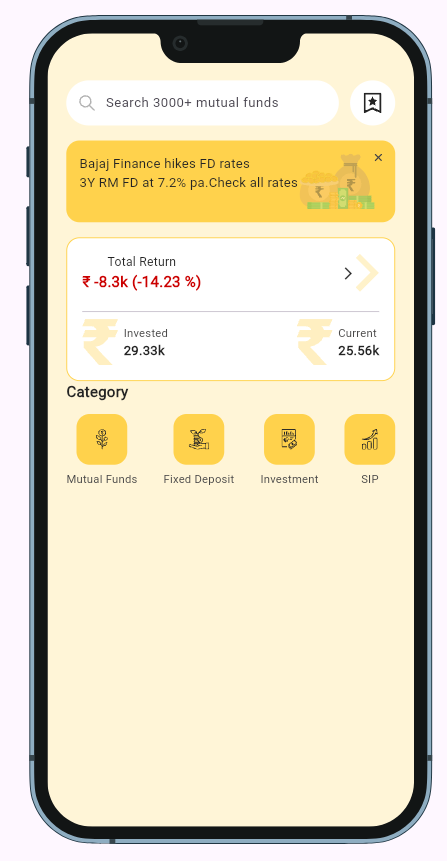
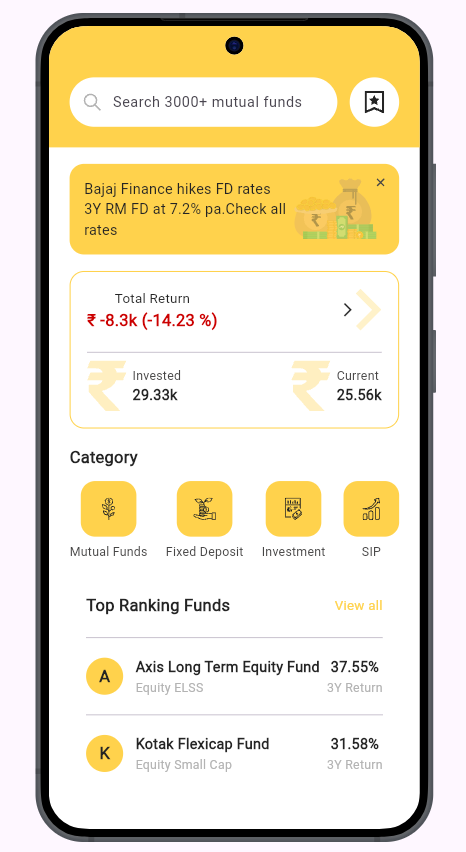
toprankingfunds done

diff --git a/lib/Home/TopRankingFunds.dart b/lib/Home/TopRankingFunds.dart
@@ -1,0 +1,143 @@
+import 'package:flutter/material.dart';
+
+import '../utils/colors.dart';
+
+class TopRankingFundsWidget extends StatelessWidget {
+  const TopRankingFundsWidget({super.key});
+
+  @override
+  Widget build(BuildContext context) {
+    return Container(
+      padding: const EdgeInsets.all(16),
+      decoration: BoxDecoration(
+        color: AppColors.card,
+        borderRadius: BorderRadius.circular(14),
+      ),
+      child: Column(
+        children: [
+          Row(
+            mainAxisAlignment: MainAxisAlignment.spaceBetween,
+            children: const [
+              Text(
+                "Top Ranking Funds",
+                style: TextStyle(
+                  fontSize: 16,
+                  fontWeight: FontWeight.w600,
+                  color: AppColors.textDark,
+                ),
+              ),
+              Text(
+                "View all",
+                style: TextStyle(fontSize: 13, color: AppColors.primary),
+              ),
+            ],
+          ),
+
+          const SizedBox(height: 12),
+          const Divider(),
+
+          fundItem(
+            iconText: "A",
+            name: "Axis Long Term Equity Fund",
+            category: "Equity ELSS",
+            returns: "37.55%",
+          ),
+
+          const Divider(),
+
+          fundItem(
+            iconText: "K",
+            name: "Kotak Flexicap Fund",
+            category: "Equity Small Cap",
+            returns: "31.58%",
+          ),
+        ],
+      ),
+    );
+  }
+
+  Widget fundItem({
+    required String iconText,
+    required String name,
+    required String category,
+    required String returns,
+  }) {
+    return InkWell(
+      onTap: () {},
+      child: Padding(
+        padding: const EdgeInsets.symmetric(vertical: 10),
+        child: Row(
+          children: [
+            Container(
+              height: 36,
+              width: 36,
+              decoration: BoxDecoration(
+                color: AppColors.primary,
+                shape: BoxShape.circle,
+              ),
+              child: Center(
+                child: Text(
+                  iconText,
+                  style: const TextStyle(
+                    fontSize: 16,
+                    fontWeight: FontWeight.w600,
+                    color: AppColors.textDark,
+                  ),
+                ),
+              ),
+            ),
+
+            const SizedBox(width: 12),
+
+            Expanded(
+              child: Column(
+                crossAxisAlignment: CrossAxisAlignment.start,
+                children: [
+                  Text(
+                    name,
+                    maxLines: 1,
+                    overflow: TextOverflow.ellipsis,
+                    style: const TextStyle(
+                      fontSize: 14,
+                      fontWeight: FontWeight.w600,
+                      color: AppColors.textDark,
+                    ),
+                  ),
+                  const SizedBox(height: 2),
+                  Text(
+                    category,
+                    style: const TextStyle(
+                      fontSize: 12,
+                      color: AppColors.textLight,
+                    ),
+                  ),
+                ],
+              ),
+            ),
+
+            Column(
+              children: [
+                Text(
+                  returns,
+                  style: const TextStyle(
+                    fontSize: 14,
+                    fontWeight: FontWeight.w600,
+                    color: AppColors.textDark,
+                  ),
+                ),
+                const SizedBox(height: 2),
+                Text(
+                  "3Y Return",
+                  style: const TextStyle(
+                    fontSize: 12,
+                    color: AppColors.textLight,
+                  ),
+                ),
+              ],
+            ),
+          ],
+        ),
+      ),
+    );
+  }
+}

diff --git a/lib/Home/Dashboard.dart b/lib/Home/Dashboard.dart
@@ -1,5 +1,6 @@
 import 'package:flutter/material.dart';
 import 'package:task1/Home/SearchbarWidget.dart';
+import 'package:task1/Home/TopRankingFunds.dart';
 import 'package:task1/Home/category_row_widget.dart';
 import 'package:task1/Home/portfolio_card_widget.dart';
 
@@ -12,20 +13,39 @@ class Dashboard extends StatelessWidget {
   @override
   Widget build(BuildContext context) {
     return Scaffold(
-      backgroundColor: AppColors.background,
+      backgroundColor: AppColors.card,
       body: SingleChildScrollView(
-        child: Padding(
-          padding: EdgeInsets.only(top: 50, left: 20, right: 20),
-          child: Column(
-            children: const [
-              SearchBarWidget(),
-              SizedBox(height: 16),
-              AdsCardWidget(),
-              SizedBox(height: 16),
-              PortfolioCardWidget(),
-              CategoryRowWidget(),
-            ],
-          ),
+        child: Column(
+          children: [
+            Container(
+              width: double.infinity, // Ensures it stretches edge-to-edge
+              color: AppColors.primary,
+              padding: const EdgeInsets.only(
+                top: 50,
+                left: 20,
+                right: 20,
+                bottom: 20,
+              ),
+              child: const SearchBarWidget(),
+            ),
+
+            Padding(
+              padding: const EdgeInsets.symmetric(horizontal: 20),
+              child: Column(
+                children: const [
+                  SizedBox(height: 16),
+                  AdsCardWidget(),
+                  SizedBox(height: 16),
+                  PortfolioCardWidget(),
+                  SizedBox(height: 16),
+                  CategoryRowWidget(),
+                  SizedBox(height: 16),
+                  TopRankingFundsWidget(),
+                  SizedBox(height: 20), // Bottom spacer
+                ],
+              ),
+            ),
+          ],
         ),
       ),
     );
